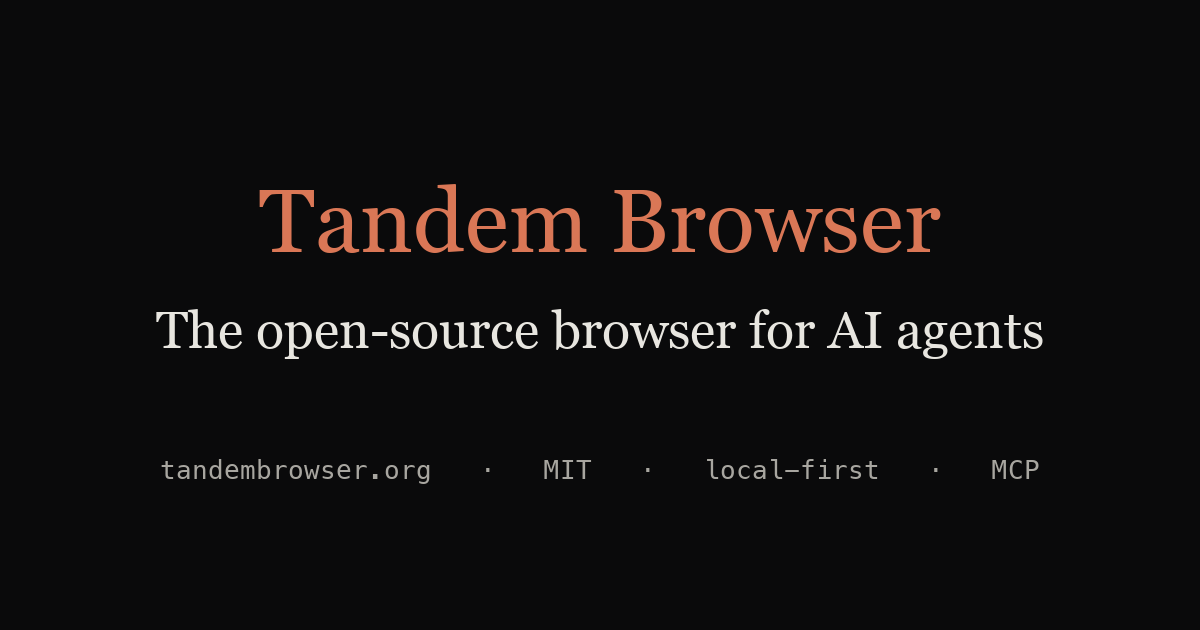
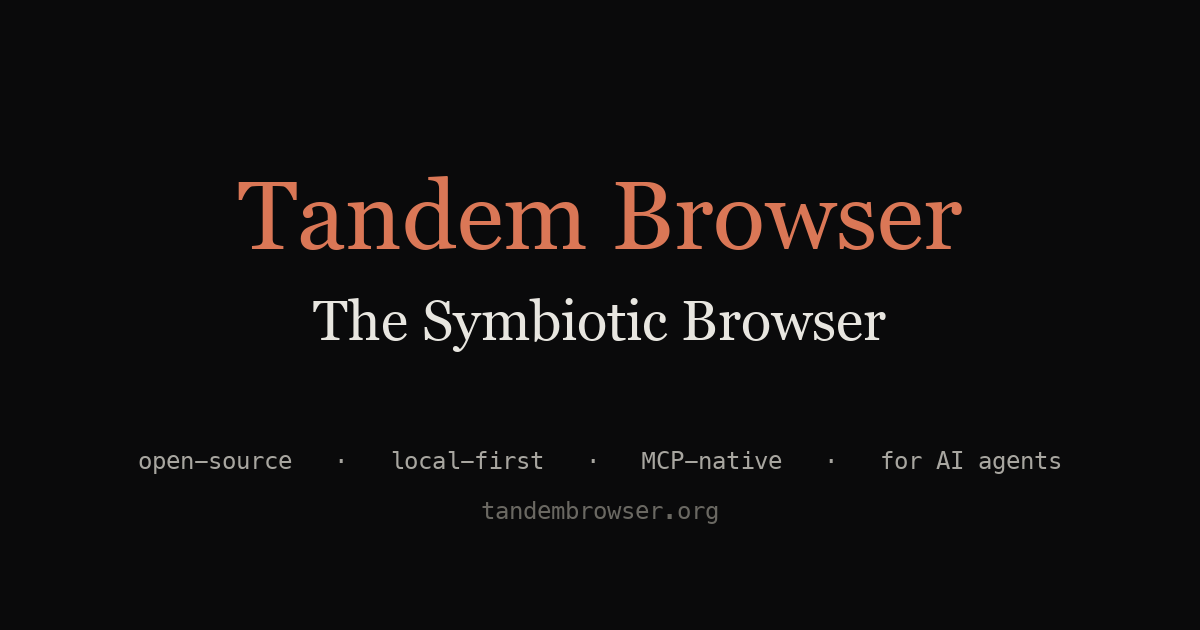
feat(seo): replace 'AI copilot' with 'AI alongside' and update og:image with Symbiotic Browser tagline

diff --git a/docs/index.html b/docs/index.html
@@ -452,7 +452,7 @@ footer a:hover{color:var(--text2)}
 <div class="concept" style="margin-top:1rem">
 <div class="concept-block">
 <h3>Anti-scraping doesn&apos;t apply</h3>
-<p>Tandem Browser is a real browser used by a real human. You browse in it daily. The AI rides alongside, using the same session and the same cookies. There is no bot to detect, just a person with an AI copilot.</p>
+<p>Tandem Browser is a real browser used by a real human. You browse in it daily. The AI rides alongside, using the same session and the same cookies. There is no bot to detect, just a person browsing alongside their AI.</p>
 </div>
 <div class="concept-block">
 <h3>AI evolves, Tandem Browser evolves with it</h3>
